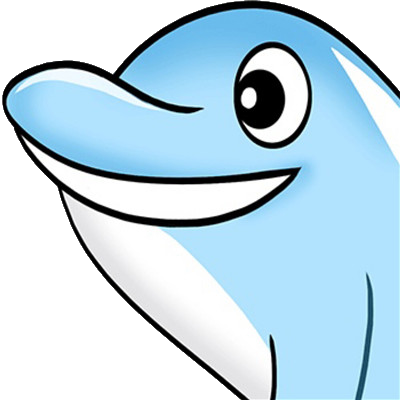
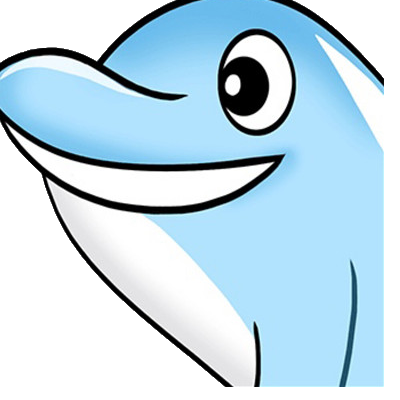
路径显示错误的问题

diff --git a/index.html b/index.html
@@ -895,7 +895,7 @@
   document.querySelectorAll('[data-md]').forEach(function(a) {
     a.addEventListener('click', function(e) {
       e.preventDefault();
-      openDoc(this.dataset.md, this.textContent.trim());
+      openDoc(this.dataset.md, this.dataset.file || this.textContent.trim().replace(/^·/, ''), this.dataset.folder || '');
     });
   });
 </script>